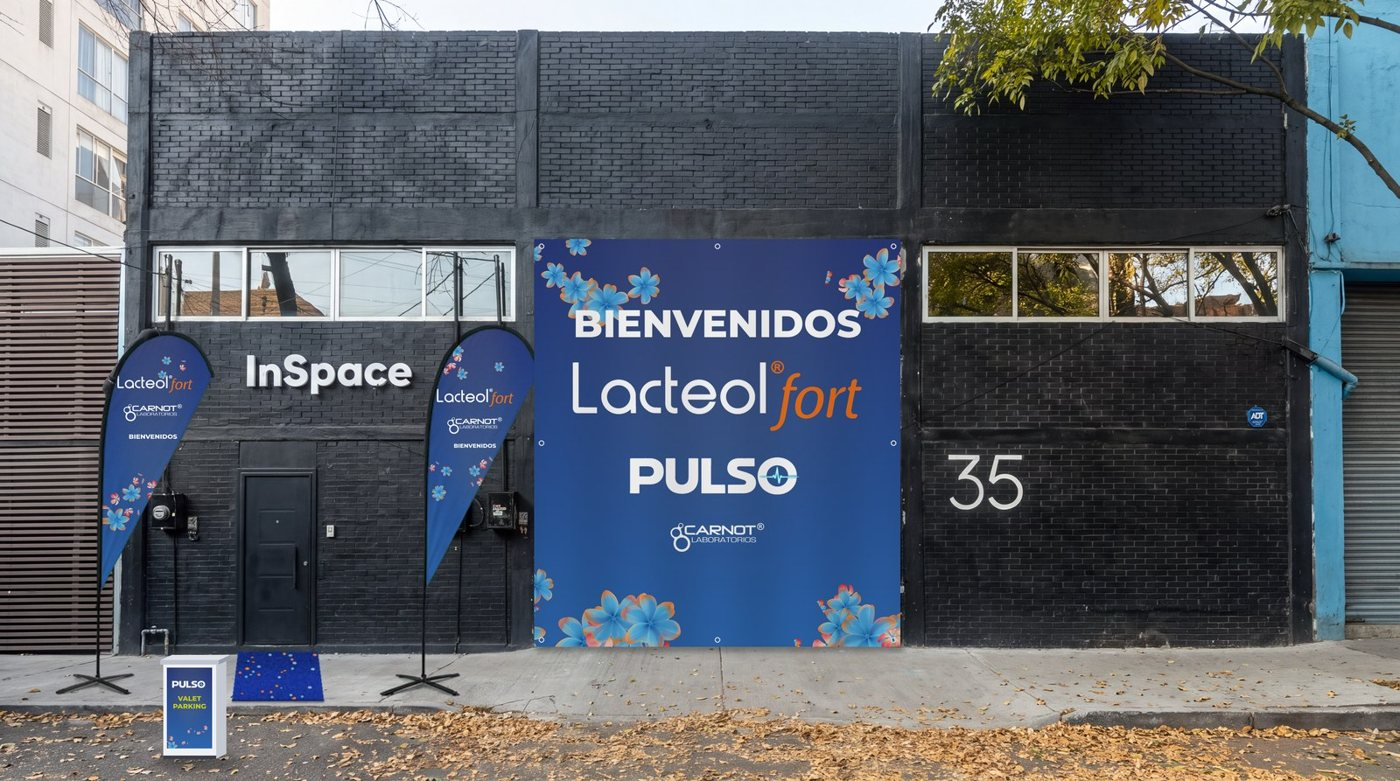
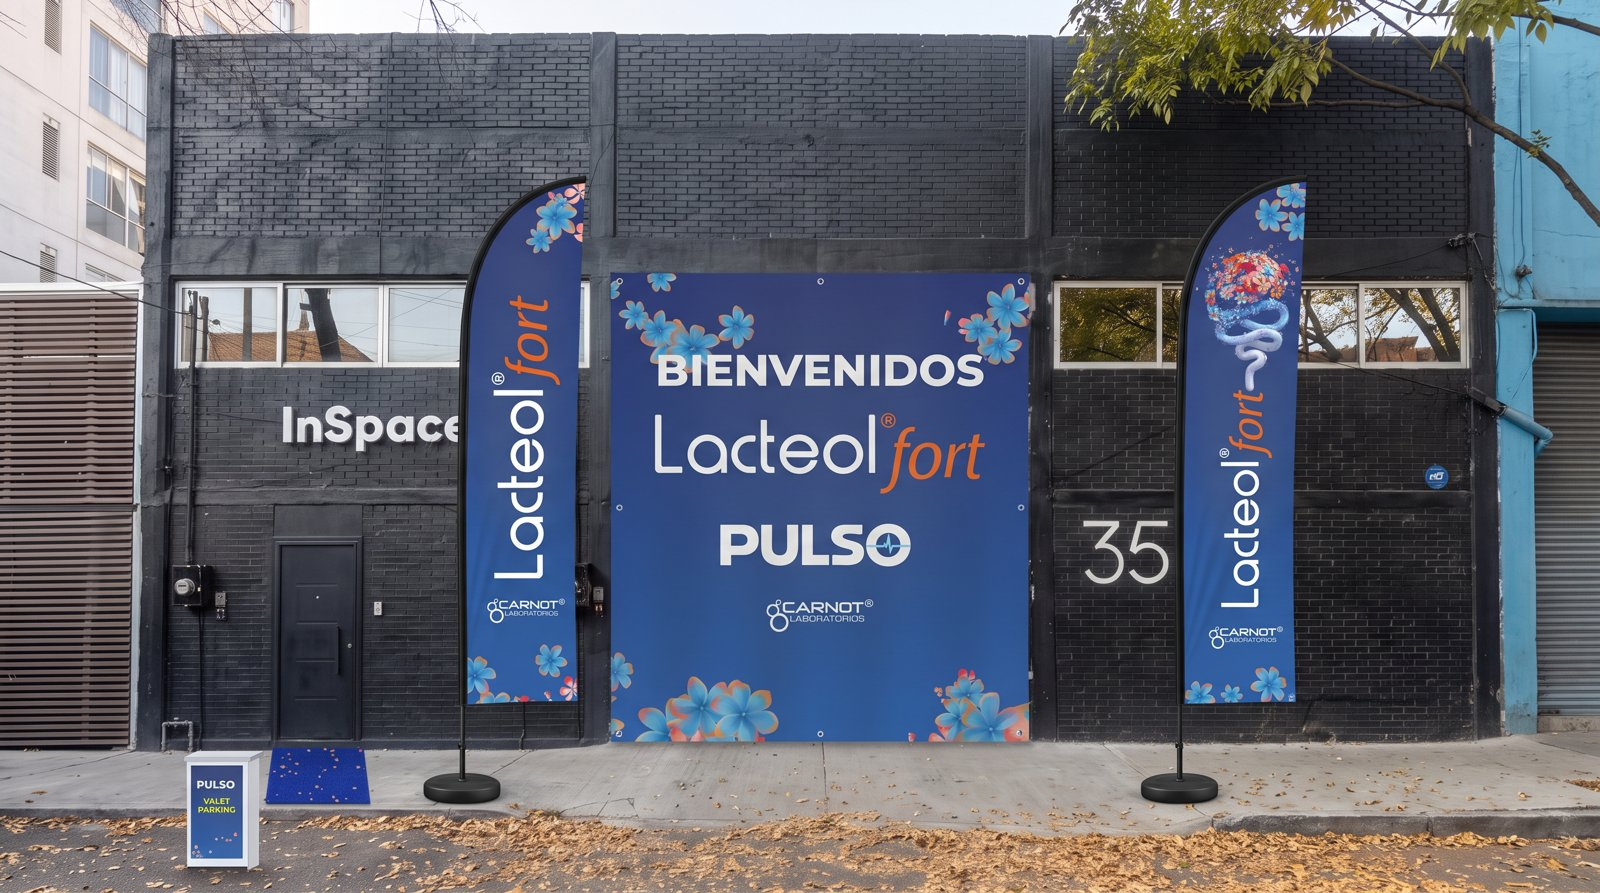
Calle con flags de pluma A y B
Claude-Session: https://claude.ai/code/session_01PuSqwAtRtqZeajJbutg3qj

diff --git a/produccion/index.html b/produccion/index.html
@@ -146,7 +146,7 @@ const S=[
  {id:'calle',grp:'Recorrido de llegada',t:'Calle',eyebrow:'0 · Llegada 14:00 · salida 22:40',h:'Flags, manta, alfombra y valet',
   p:'La fachada de InSpace en Pestalozzi 35. Dos flags tipo gota a los lados de la puerta peatonal, alfombra solo sobre la banqueta y valet en la calle. De noche se suma iluminación para la salida.',
   carnot:'Lacteol fort más grande en la entrada. Flags sin PULSO: Lacteol fort y Carnot protagonistas, «Bienvenidos» chico (13 nov: opciones A y B). Vía pública: visto bueno de regulatorio y, si aplica, COFEPRIS.',
-  img:[['calle_dia','De día, llegada'],['calle_noche','De noche, salida'],['flags','Flags de pluma 75 × 280 cm: versión A y versión B']],
+  img:[['calle_dia','De día, llegada, con los flags de pluma A y B'],['calle_noche','De noche, salida'],['flags','Flags de pluma 75 × 280 cm: versión A y versión B']],
   items:[
    ['flag1','imp','Flag A · pluma 75 × 280 · Lacteol fort vertical y Carnot','75 × 280 cm (plantilla del proveedor), poliéster sublimado, asta a la izquierda','2026-11-13_PULSO_Flag_A_750x2800mm',AA+'Artes_impresion/Finales_rebase'+'/01_Flags','Revisar con el proveedor que la curva superior no corte logos.'],
    ['flag2','imp','Flag B · pluma 75 × 280 · intestino de flores arriba','75 × 280 cm (plantilla del proveedor), poliéster sublimado, asta a la izquierda','2026-11-13_PULSO_Flag_B_750x2800mm',AA+'Artes_impresion/Finales_rebase'+'/01_Flags','Revisar con el proveedor que la curva superior no corte logos.'],
